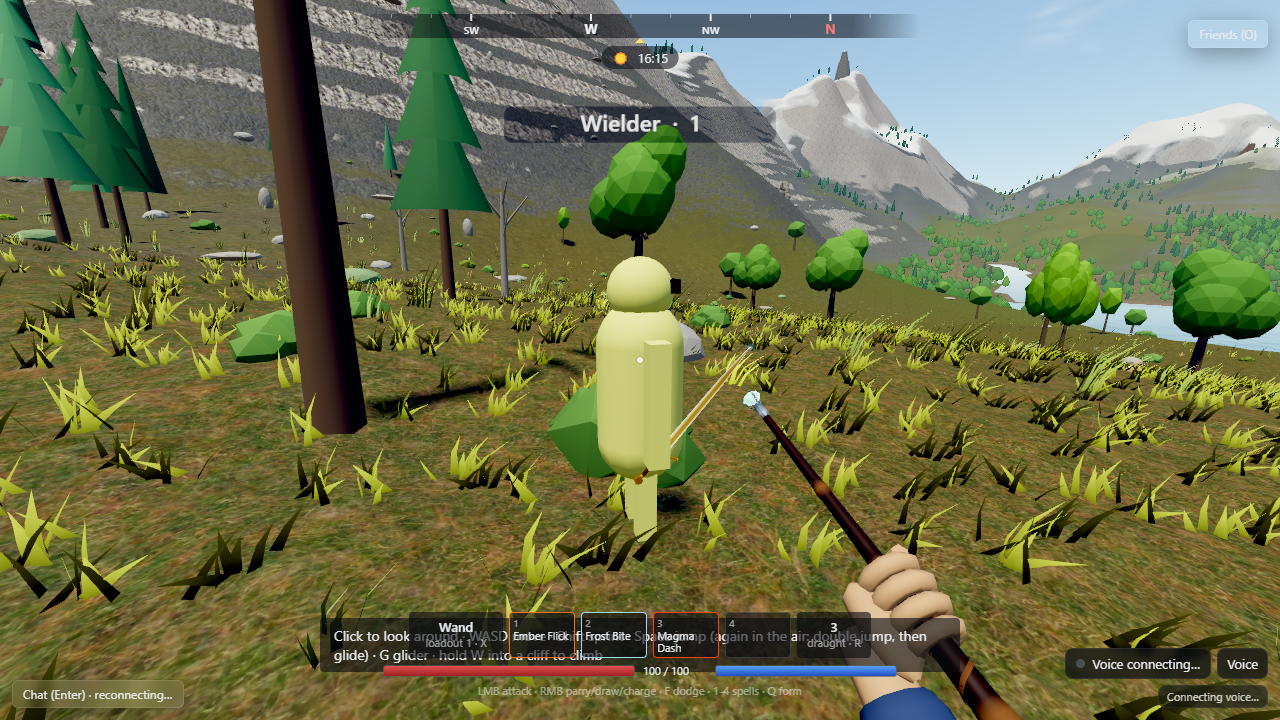
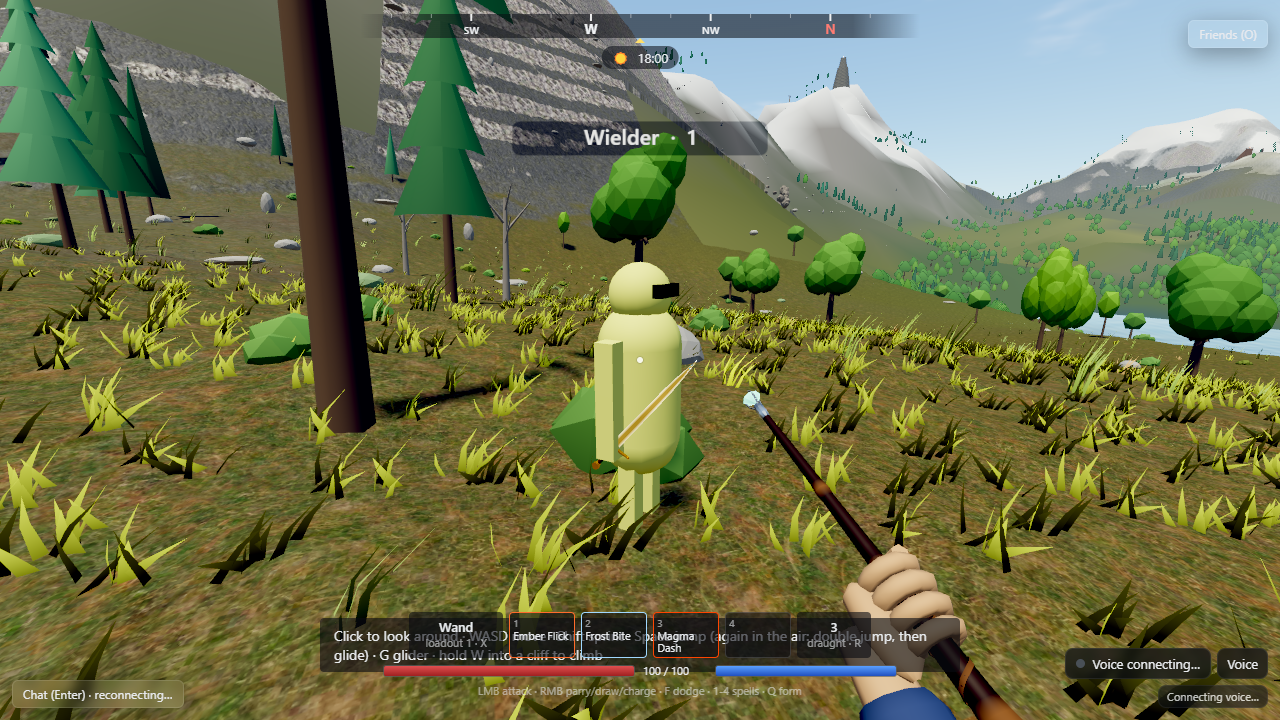
pt/ux weapons: README, staff pose, sunsteel glow, night shot, evidence

diff --git a/client/src/combat/dev/weapon-shots.ts b/client/src/combat/dev/weapon-shots.ts
@@ -153,18 +153,24 @@ async function main() {
     }
 
     // First-person shots (gem element: 0 fire, 1 ice, 2 lightning, 3 earth, 4 wind, 5 light, 6 dark, 7 void).
-    const shots: { name: string; weapon: string; gem: number; material: number; draw?: boolean }[] = [
+    const shots: { name: string; weapon: string; gem: number; material: number; draw?: boolean; night?: boolean }[] = [
       { name: 'sword', weapon: 'sword', gem: -1, material: 0 },
       { name: 'spear', weapon: 'spear', gem: 1, material: 0 },
       { name: 'bow', weapon: 'bow', gem: 2, material: 0, draw: true },
       { name: 'staff', weapon: 'staff', gem: 0, material: 0 },
       { name: 'wand', weapon: 'wand', gem: 7, material: 0 },
-      { name: 'sunsteel', weapon: 'sword', gem: 5, material: 3 },
+      { name: 'sunsteel', weapon: 'sword', gem: 1, material: 3 },
+      { name: 'sunsteel-night', weapon: 'sword', gem: 1, material: 3, night: true },
     ];
     const only = process.env.WEAPON_SHOTS_ONLY?.split(',');
     for (const s of shots) {
       if (only && !only.includes(s.name)) continue;
+      if (before && s.night) continue;
       await equip(a, s.weapon, s.gem, s.material);
+      if (s.night) {
+        await a.evaluate(() => (window as unknown as W).__lodestone.setTimeOfDay(0.93 * 3600));
+        await sleep(1500);
+      }
       if (s.draw) {
         await a.mouse.down({ button: 'right' });
         await sleep(1300);
@@ -174,6 +180,7 @@ async function main() {
         await a.mouse.up({ button: 'right' });
         await sleep(600);
       }
+      if (s.night) await a.evaluate(() => (window as unknown as W).__lodestone.setTimeOfDay(0.45 * 3600));
       console.log(`shot ${prefix}${s.name}.png`);
     }
 

diff --git a/client/src/combat/weapons/models.ts b/client/src/combat/weapons/models.ts
@@ -46,7 +46,7 @@ const METALS: Record<string, Metal> = {
   copper: metal('#c4774a', '#f0b086', '#9a5a36', 0.9, 0.38),
   iron: metal('#8c9198', '#c9cdd2', '#5f6369', 0.85, 0.5),
   silver: metal('#dde3ea', '#ffffff', '#b3bac3', 0.95, 0.2),
-  sunsteel: metal('#f2cd78', '#fff4cf', '#d9a03c', 0.95, 0.2, 0.22, 0.75, 0.12),
+  sunsteel: metal('#f2cd78', '#fff4cf', '#d9a03c', 0.95, 0.2, 0.28, 0.9, 0.12),
   starmetal: metal('#a7b6e6', '#e6ecff', '#6f7fb8', 0.95, 0.24, 0.1, 0.35, 0.05),
   voidglass: metal('#3d2660', '#b38ff0', '#2a1a44', 0.35, 0.08, 0.18, 0.6, 0.08),
 };
@@ -163,7 +163,7 @@ function sword(b: MeshBuilder, l: WeaponLook, d: Detail): void {
       b.with(M.t(sx * 0.104, 0.065, 0), () => lathe(b, [[-0.012, 0.0005], [-0.006, 0.009], [0.003, 0.01], [0.01, 0.0005]], segsOf(d, 8, 5, 4), mt.fit, { smooth: true }));
     // langet block over the blade's root
     sweep(b, [[0, 0.028, 0], [0, 0.05, 0], [0, 0.075, 0]], polygon(8, 0.03, 0.0125), mt.fit, { side: [1, 0, 0], smooth: false, capEnd: true, scale: (i) => [i === 2 ? 0.55 : 1, i === 2 ? 0.7 : 1] });
-    for (const sz of [-1, 1]) b.with(M.of(M.t(0, 0.052, sz * 0.0125), M.rx((sz * Math.PI) / 2)), () => setGem(b, 0.0085, l.gem, mt.fit, d));
+    for (const sz of [-1, 1]) b.with(M.of(M.t(0, 0.052, sz * 0.0125), M.rx((sz * Math.PI) / 2)), () => setGem(b, 0.0095, l.gem, mt.fit, d));
   }
 
   // Grip: a swelled core wound with a leather strap, metal collars.

diff --git a/client/src/combat/weapons/FirstPersonWeapon.tsx b/client/src/combat/weapons/FirstPersonWeapon.tsx
@@ -44,7 +44,7 @@ const POSES: Record<WeaponKind, Pose> = {
   sword: { pos: [0.24, -0.22, -0.44], up: [-0.32, 0.64, -0.7], face: [-0.3, 0.45, 1] },
   spear: { pos: [0.22, -0.28, -0.22], up: [-0.13, 0.12, -1], face: [0, 1, 0.1], offhand: 0.46 },
   bow: { pos: [-0.14, -0.1, -0.58], up: [0.35, 0.95, 0.3], face: [0.1, -0.3, 0.95], scale: 0.85 },
-  staff: { pos: [0.28, -0.32, -0.5], up: [-0.12, 1, -0.42], face: [0.3, 0, 1] },
+  staff: { pos: [0.27, -0.28, -0.46], up: [-0.15, 1, -0.65], face: [0.3, 0, 1] },
   wand: { pos: [0.22, -0.2, -0.38], up: [-0.3, 0.62, -1], face: [0.3, 1, 0.3] },
 };
 /** The swing pivots about the right shoulder region, so a cut sweeps across the view. */

diff --git a/client/src/combat/README.md b/client/src/combat/README.md
@@ -10,7 +10,8 @@ zone session (`link.ts`), offline play has no enemies.
 | `probe.ts` | The input-to-hit timing probe (press -> first hit frame, feedback, recovery, dodge-cancel, i-frames, buffer, hitstop, drink, wind-ups, confirmation) |
 | `events.ts` | Event kinds 200-222, Interact 50, `combat_sync` / telegraph decoders, typeId unpacking |
 | `store.ts` | HUD state (zustand, event-rate) and the FX queue |
-| `CombatLayer.tsx` | Enemies, telegraph decals, projectiles, areas, beams, sparks, floating numbers, the first-person weapon and its swing |
+| `CombatLayer.tsx` | Enemies, telegraph decals, projectiles, areas, beams, sparks, floating numbers; mounts the first-person weapon (`weapons/`) and feeds it the melee swings |
+| `weapons/` | Procedural weapon models, the first-person weapon and the weapon look other players see (pt/ux, below) |
 | `CombatHud.tsx` | Health, mana, weapon + four spell slots with cooldowns, draughts, boss bar, toasts, downed overlay |
 | `link.ts` | Session attach, PlayerDriver hooks, `window.__lodestoneCombat` (probe, HUD) |
 | `dev/feel-browser.ts` | Headless Chromium feel run against the real zone (`npm run combat:browser -w client`) |
@@ -22,3 +23,61 @@ middle mouse weapon technique, R draught, X swap loadout.
 Tests: `npx vitest run src/combat` (feel limits in the tables, timeline
 rules, wire decoders). The real-time numbers come from the probe run
 (docs/evidence/wp13-feel.*).
+
+## Weapons (pt/ux: "weapons don't look like weapons")
+
+Sword, spear, bow, staff and wand are procedural models (no assets, nothing
+in CREDITS.md), built once per look and cached for the session (never
+disposed):
+
+| File | What |
+| --- | --- |
+| `weapons/builder.ts` | Loft/lathe/sweep mesh builder: one indexed BufferGeometry per weapon with vertex colour and a `surf` attribute (metalness, roughness, glow) |
+| `weapons/material.ts` | The ONE material every weapon, fist and forearm shares (a patched MeshStandardMaterial: per-vertex PBR terms, a sky/ground reflection for metal since the scene has no environment map, glow with a slow shimmer and rim); one program, compiled when the first weapon is drawn at zone join |
+| `weapons/models.ts` | The five weapons at three detail levels, hands, the bow's dynamic string and nocked arrow |
+| `weapons/look.ts` | Weapon look (type, material, gem) and its typeId packing |
+| `weapons/FirstPersonWeapon.tsx` | The first-person rig: poses, fists and forearms, swing (hitstop-frozen, probe-measured exactly as before), bow draw, cast flicks, walk bob |
+| `weapons/dev/preview.html` | Art preview on the Vite dev server (`/src/combat/weapons/dev/preview.html?sunsteel=1&gem=5`, `?d=1`, `?zoom=sword`); `dev/preview-shot.ts` screenshots it, `dev/tris.ts` prints triangle counts |
+| `dev/weapon-shots.ts` | `npm run weapons:shots -w client [-- before]`: real client + real zone screenshots, docs/evidence/pt-ux-weapon-*.png |
+
+What they look like: an arming sword (tapered, bevelled, fullered blade,
+curved crossguard with finials and a langet carrying the gem on both faces,
+leather-strapped grip, wheel pommel); a spear (ash shaft, strapped grip,
+cord binding, socketed leaf head with a midrib and the gem at its base, butt
+spike); a recurve bow (laminated limbs, leather grip, riser fittings, the gem
+in the riser, a string that pulls back with the draw and an arrow nocked
+while drawing); a staff (gnarled shaft, metal collar, four tines cradling a
+large gem, plain quartz when none is socketed); a wand (ebony with carved
+beads and spiral, metal ferrule, three claws holding the gem tip).
+
+Materials colour the metal: steel by default, items.yaml copper, iron,
+silver, sunsteel, starmetal, voidglass (oak = wooden). **Sunsteel** is a
+warm gold-white with glowing edges and a shimmer running up the blade (it
+reads at night too). Gems take their element colour (`ELEMENT_COLORS`) and
+glow.
+
+Budgets (triangles, one draw call each; fist 566, forearm 80):
+
+| | first person | third person (< 25 m) | far (25-90 m) |
+| --- | --- | --- | --- |
+| sword | 1588 | 552 | 124 |
+| spear | 1184 | 432 | 112 |
+| bow | 964 | 448 | 76 |
+| staff | 1252 | 354 | 68 |
+| wand | 1068 | 222 | 68 |
+
+The first-person view is 3 draw calls (weapon, right fist, right forearm),
+5 with the off hand (spear shaft, bow grip); each remote player adds 1.
+
+Where the look comes from: your own weapon and gem from the active loadout
+(`combat_sync`), its material from the per-loadout material codes that now
+end `combat_sync`; other players' from their entity's snapshot `typeId`
+(weapon id | material code << 4 | (gem element + 1) << 8, contracts/
+events.md "Players"), which the zone sets only when the loadout or gear
+changes. Remote avatars hold it in the right hand (the bow in the left) on
+the high LOD and at the side on the mid LOD.
+
+Tests: `src/combat/weapons/weapons.test.ts` (budgets, bounds, determinism,
+cache, gem and sunsteel glow, bow draw, typeId packing, combat_sync tail),
+`src/net/avatar.test.ts` (a remote avatar holds and swaps the weapon);
+zone: `server/zone/internal/game/weaponlook_test.go`.
